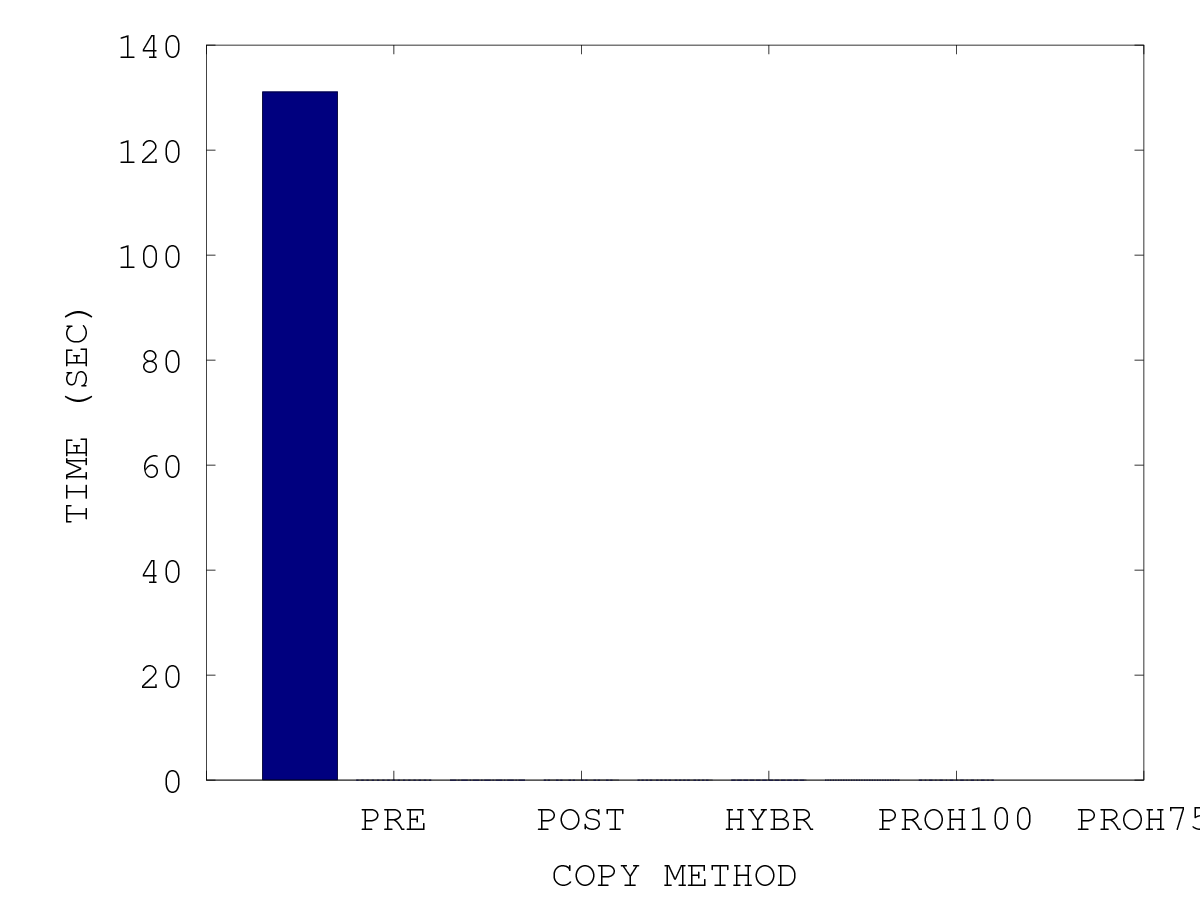
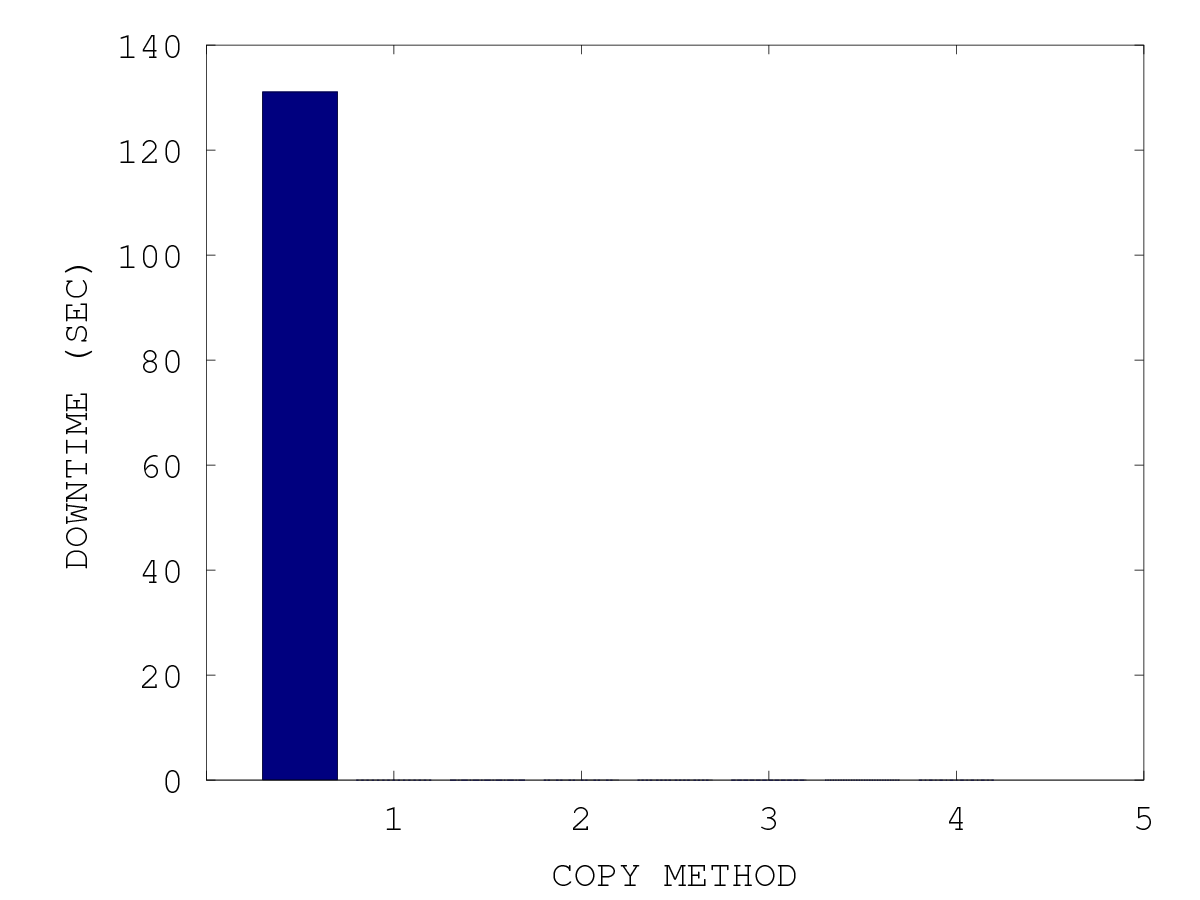
basic.m

diff --git a/basic.m b/basic.m
@@ -270,7 +270,8 @@ figure;
 output = strcat(prefix, ".tt");
 %output = prefix
 %x = ['PRECOPY', 'POSTCOPY', 'HYBRID', 'PRO-HYBRID'];
-x = {'', 'PRE', 'POST', 'HYBR', 'PROH100', 'PROH75', 'PROH50', 'PROH25', 'PROH0'};
+%x = {'', 'PRE', 'POST', 'HYBR', 'PROH100', 'PROH75', 'PROH50', 'PROH25', 'PROH0'};
+x = {'', '1', '2', '3', '4', '5', '6', '7', '8'};
 %x = 1:1:length(A);
 %plot(x, A(:,2)/1000000, x, A(:,3)/1000000, '-.*');
 %plot(A(:,2));
@@ -280,7 +281,7 @@ x = {'', 'PRE', 'POST', 'HYBR', 'PROH100', 'PROH75', 'PROH50', 'PROH25', 'PROH0'
 bar(A(:,1))
 set(gca, 'XTickLabel', x, 'FontSize', fontsize)
 xlabel('COPY METHOD', 'FontSize', fontsize);
-ylabel('TIME (SEC)', 'FontSize', fontsize);
+ylabel('TOTAL TIME (SEC)', 'FontSize', fontsize);
 %legend('PRECOPY', 'POSTCOPY', 'HYBRID', 'PRO-HYBRID');
 %bar(x, A(:,1))
 
@@ -295,7 +296,7 @@ output = strcat(prefix, ".dt");
 bar(A(:,2))
 set(gca, 'XTickLabel', x, 'FontSize', fontsize)
 xlabel('COPY METHOD', 'FontSize', fontsize);
-ylabel('TIME (SEC)', 'FontSize', fontsize);
+ylabel('DOWNTIME (SEC)', 'FontSize', fontsize);
 
 saveas (1, strcat(output, ".png"));
 saveas (1, strcat(output, ".eps"));
@@ -308,7 +309,7 @@ output = strcat(prefix, ".td");
 bar(A(:,3))
 set(gca, 'XTickLabel', x, 'FontSize', fontsize)
 xlabel('COPY METHOD', 'FontSize', fontsize);
-ylabel('SIZE (KB)', 'FontSize', fontsize);
+ylabel('TOTAL DATA TRANSFERRED (KB)', 'FontSize', fontsize);
 
 saveas (1, strcat(output, ".png"));
 saveas (1, strcat(output, ".eps"));
